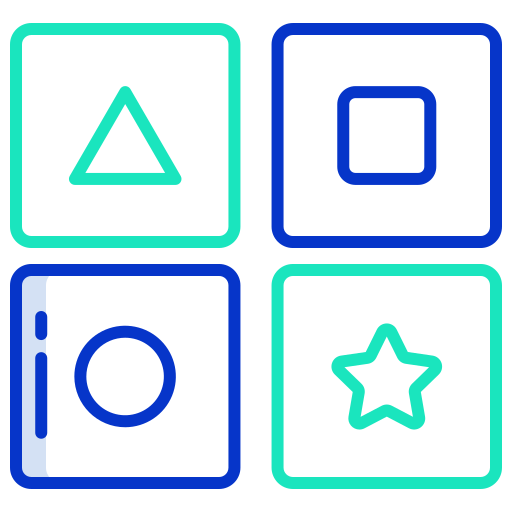
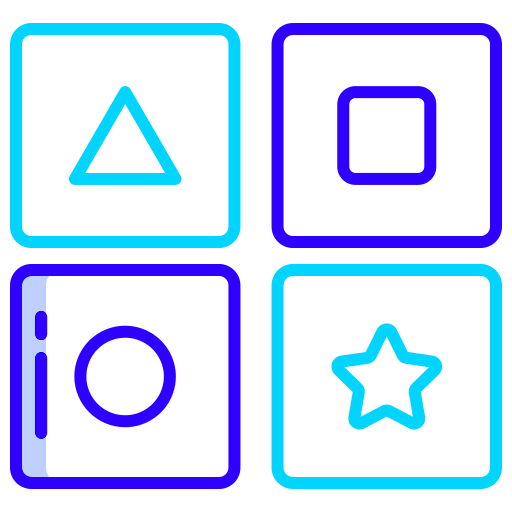
Made the window moveable

diff --git a/src/components/my-window/my-window.js b/src/components/my-window/my-window.js
@@ -10,6 +10,11 @@ customElements.define('my-window',
     #closeButton
     #windowTitle
     #abortController = new AbortController()
+    #startX // current cord
+    #startY // current cord
+    #newX // how much it moved
+    #newY // how much it moved
+    #isDragging = false
 
     /**
      *
@@ -28,9 +33,6 @@ customElements.define('my-window',
      *
      */
     connectedCallback () {
-      /*       this.#myWindow.addEventListener('click', event => {
-        console.log('window added to shadowDOM')
-      }) */
       if (this.#myWindow) {
         console.log('window added to shadowDOM')
       } else {
@@ -45,21 +47,54 @@ customElements.define('my-window',
       this.#windowTitle.addEventListener('click', event => {
         console.log('title clicked')
       })
+
+      this.#windowTitle.addEventListener('mousedown', e => this.mouseDown(e))
+
+      document.addEventListener('mousemove', e => this.mouseMove(e))
+
+      document.addEventListener('mouseup', e => this.mouseUp(e))
     }
 
     /**
      *
+     * @param e
      */
-    moveWindow () {
-      this.#windowTitle.addEventListener('mousedown', event => {
-        console.log('down')
-      })
-      this.#windowTitle.addEventListener('mousemove', event => {
-        console.log('move')
-      })
-      this.#windowTitle.addEventListener('mouseup', event => {
-        console.log('up')
-      })
+    mouseDown (e) {
+      this.#isDragging = true
+      this.#startX = e.clientX
+      this.#startY = e.clientY
+    }
+
+    /**
+     *
+     * @param e
+     */
+    mouseMove (e) {
+      if (!this.#isDragging) return
+      this.#newX = this.#startX - e.clientX
+      this.#newY = this.#startY - e.clientY
+
+      this.#startX = e.clientX
+      this.#startY = e.clientY
+
+      this.#myWindow.style.top = (this.#myWindow.offsetTop - this.#newY) + 'px'
+      this.#myWindow.style.left = (this.#myWindow.offsetLeft - this.#newX) + 'px'
+
+      console.log('newX', this.#newX)
+      console.log('newY', this.#newY)
+      console.log('startX', this.#startX)
+      console.log('startY', this.#startY)
+    }
+
+    /**
+     *
+     * @param e
+     */
+    mouseUp (e) {
+      if (this.#isDragging) {
+        console.log('Dragging ended')
+        this.#isDragging = false
+      }
     }
 
     /**

diff --git a/src/components/my-window/my-windown-template.js b/src/components/my-window/my-windown-template.js
@@ -25,7 +25,7 @@ template.innerHTML = `
   border: solid 1px #e2e2e2;
   background-color: white;
   z-index: 100;
-  position: absolute;
+  position: fixed;
   box-shadow: 0 4px 8px rgba(0, 0, 0, 0.2); 
   overflow: hidden;
 }

diff --git a/src/components/memory-game/memory-game.js b/src/components/memory-game/memory-game.js
@@ -82,7 +82,6 @@ customElements.define('memory-game',
      *
      */
 
-
     /**
      *
      */
